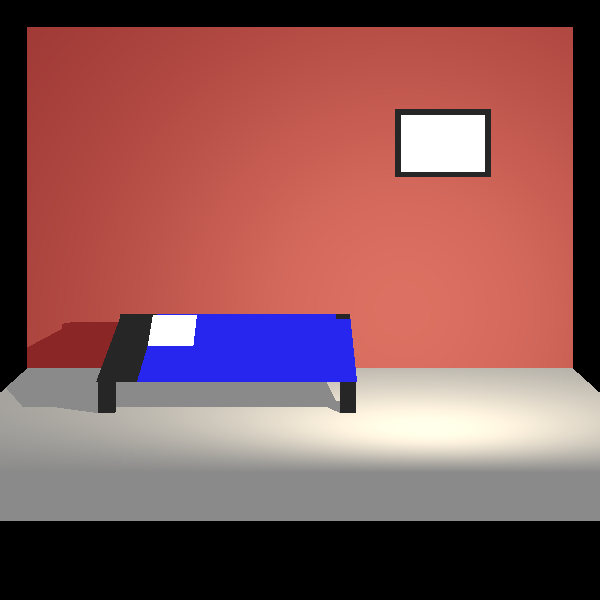
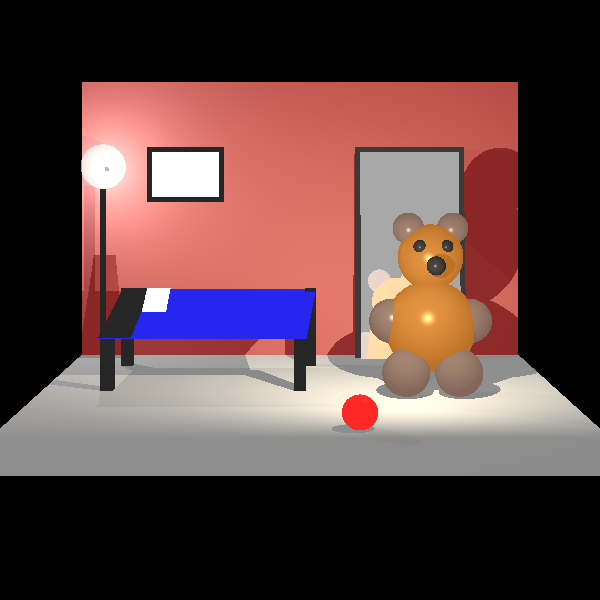
continue new MP2

diff --git a/unitTests/improvments/improvmentsTests.java b/unitTests/improvments/improvmentsTests.java
@@ -2,6 +2,7 @@ package improvments;
 
 import geometries.*;
 import lighting.AmbientLight;
+import lighting.PointLight;
 import lighting.SpotLight;
 import org.junit.jupiter.api.Test;
 import primitives.*;
@@ -210,7 +211,7 @@ public class improvmentsTests {
 //        Camera camera = new Camera(new Point(0, 0, 1000), new Vector(0, 0, -1), new Vector(0, 1, 0))
 //                .setVPSize(200, 200).setVPDistance(500);
         Camera camera = new Camera(new Point(0, 0, 1000), new Vector(0, 0, -1), new Vector(0, 1, 0))
-                .setVPSize(200, 200).setVPDistance(500);
+                .setVPSize(200, 200).setVPDistance(400);
 
         scene.setAmbientLight(new AmbientLight(new Color(WHITE), 0.15));
         scene.geometries.add(
@@ -236,58 +237,164 @@ public class improvmentsTests {
                                 .setShininess(0)),
                 //new Cuboid(new Point(-100, -10, -70), 100, 20, 30, new Color(BLUE)),
                 new Polygon(//frame
-                        new Point(70, 90, -100),
-                        new Point(140, 90, -100),
-                        new Point(140, 140, -100),
-                        new Point(70, 140, -100)
+                        new Point(-140, 90, -100),
+                        new Point(-70, 90, -100),
+                        new Point(-70, 140, -100),
+                        new Point(-140, 140, -100)
                 ).setEmission(new Color(0, 0, 0)),
                 new Polygon(//white picture
-                        new Point(74, 94, -100),
-                        new Point(136, 94, -100),
-                        new Point(136, 136, -100),
-                        new Point(74, 136, -100)
-                ).setEmission(new Color(255,255,255)),
+                        new Point(-136, 94, -100),
+                        new Point(-74, 94, -100),
+                        new Point(-74, 136, -100),
+                        new Point(-136, 136, -100)
+                ).setEmission(new Color(255, 255, 255)),
+                new Polygon(//frame of mirror
+                        new Point(50, -70, -80),
+                        new Point(150, -70, -80),
+                        new Point(150, 140, -100),
+                        new Point(50, 140, -100)
+                ).setEmission(new Color(20, 20, 20)),
+                new Polygon(//mirror
+                        new Point(55, -55, -77),
+                        new Point(145, -55, -77),
+                        new Point(145, 135, -97),
+                        new Point(55, 135, -97)).setEmission(new Color(130,130,130)).setMaterial(new Material().setKr(0.7)),
+                new Cuboid(new Point(-180, 100, -80), 5, 160, 5, new Color(BLACK)),//stick of lamp
+                new Sphere(20d, new Point(-177, 120, -80))  //lamp
+                        .setMaterial((new Material()
+                                .setKd(0.5)
+                                .setKs(0.2)
+                                .setKt(0.7))),
+
                 new Polygon( //bed
-                        new Point(-125, -10, -50),
-                        new Point(35, -10, -50),
-                        new Point(35, -50, 80),
-                        new Point(-125, -50, 80)
-                ).setEmission(new Color(0,0,200)),
+                        new Point(-146, 10, -50),
+                        new Point(14, 10, -50),
+                        new Point(5, -30, 80),
+                        new Point(-155, -30, 80)
+                ).setEmission(new Color(0, 0, 200)),
 //                        .setMaterial((new Material()
 //                                .setKd(0.5)
 //                                .setKs(0.5)
 //                                .setKr(0.5)
 //                                .setShininess(30))),
-                new Cuboid(new Point(-115, -47, 65),110,3, 50,new Color(WHITE)),//כרית
+                // new Cuboid(new Point(-155, -27, 65),110,3, 50,new Color(WHITE)),//כרית
 
                 //top left bed leg
-                new Cuboid(new Point(-125, -10, -40),10,60,10),
+                new Cuboid(new Point(-155, 10, -40), 10, 80, 10),
                 //top right bed leg
-                new Cuboid(new Point(25, -10, -40),10,60,10),
+                new Cuboid(new Point(4, 10, -40), 10, 80, 10),
                 //bottom right bed leg
-                new Cuboid(new Point(25, -50, 70),10,60,10),
+                new Cuboid(new Point(-5, -30, 70), 10, 80, 10),
                 //bottom left bed leg
-                new Cuboid(new Point(-125, -50, 70),10,60,10),
+                new Cuboid(new Point(-155, -30, 70), 10, 80, 10),
 
-                new Polygon(new Point(-125, -50, 80),
-                        new Point(-100, -50, 80),
-                        new Point(-100, -10, -50),
-                        new Point(-125, -10, -50)),
+                new Polygon(new Point(-155, -29.5, 80),
+                        new Point(-130, -29.5, 80),
+                        new Point(-130, 10.5, -50),
+                        new Point(-155, 10.5, -50)),
 
-                new Polygon(new Point(-100, -50, 50),
-                        new Point(-70, -50, 50),
-                        new Point(-70, -10, -20),
-                        new Point(-100, -10, -20)).setEmission(new Color(WHITE))
+                new Polygon(new Point(-130, -30, 50),
+                        new Point(-110, -30, 50),
+                        new Point(-110, 10, -20),
+                        new Point(-130, 10, -20)).setEmission(new Color(WHITE)),
+                new Sphere(35d, new Point(100, -20, 80))//body
+                        .setEmission(new Color(150, 75, 0))
+                        .setMaterial(new Material()
+                                .setKd(0.2)
+                                .setKs(0.7)
+                                .setShininess(30)),
+                new Sphere(25d, new Point(100, 33, 80))//head
+                        .setEmission(new Color(150, 75, 0))
+                        .setMaterial(new Material()
+                                .setKd(0.2)
+                                .setKs(0.7)
+                                .setShininess(30)),
+                new Sphere(17d, new Point(70, -16, 80))//left arm
+                        .setEmission(new Color(92, 64, 51))
+                        .setMaterial(new Material()
+                                .setKd(0.2)
+                                .setKs(0.7)
+                                .setShininess(30)),
+                new Sphere(17d, new Point(130, -16, 80))//right arm
+                        .setEmission(new Color(92, 64, 51))
+                        .setMaterial(new Material()
+                                .setKd(0.2)
+                                .setKs(0.7)
+                                .setShininess(30)),
+                new Sphere(18d, new Point(80, -55, 96))//left leg
+                        .setEmission(new Color(92, 64, 51))
+                        .setMaterial(new Material()
+                                .setKd(0.2)
+                                .setKs(0)
+                                .setShininess(30)),
+                new Sphere(18d, new Point(120, -55, 96))//right leg
+                        .setEmission(new Color(92, 64, 51))
+                        .setMaterial(new Material()
+                                .setKd(0.2)
+                                .setKs(0)
+                                .setShininess(30)),
+                new Sphere(12d, new Point(83, 55, 80))//left ear
+                        .setEmission(new Color(92, 64, 51))
+                        .setMaterial(new Material()
+                                .setKd(0.2)
+                                .setKs(0.7)
+                                .setShininess(30)),
+                new Sphere(12d, new Point(117, 55, 80))//right ear
+                        .setEmission(new Color(92, 64, 51))
+                        .setMaterial(new Material()
+                                .setKd(0.2)
+                                .setKs(0.7)
+                                .setShininess(30)),
+                new Sphere(5d, new Point(110, 40, 100))//right eye
+                        .setEmission(new Color(BLACK))
+                        .setMaterial(new Material()
+                                .setKd(0.2)
+                                .setKs(0.7)
+                                .setShininess(30)),
+                new Sphere(5d, new Point(90, 40, 100))//left eye
+                        .setEmission(new Color(BLACK))
+                        .setMaterial(new Material()
+                                .setKd(0.2)
+                                .setKs(0.7)
+                                .setShininess(30)),
+                new Sphere(7d, new Point(100, 25, 120))//nose
+                        .setEmission(new Color(BLACK))
+                        .setMaterial(new Material()
+                                .setKd(0.2)
+                                .setKs(0.7)
+                                .setShininess(30)),
+                new Sphere(3d, new Point(100, 20, 120))//mouse
+                        .setEmission(new Color(255,0,0))
+                        .setMaterial(new Material()
+                                .setKd(0.2)
+                                .setKs(0.7)
+                                .setShininess(30)),
 
-                //new Cuboid(new Point(-125, 0, 70),10,10,200, new Color(255,255,255))
 
+
+
+
+
+
+
+        new Sphere(12d, new Point(40, -75, 200))
+                .setEmission(new Color(RED))
+                .setMaterial(new Material()
+                        .setKd(0.2)
+                        .setKs(0.7)
+                        .setShininess(30))
+
+        //new Cuboid(new Point(-125, 0, 70),10,10,200, new Color(255,255,255))
 
 
         );
 
 
         scene.lights.add(new SpotLight(new Color(245, 222, 179), new Point(75, 20, 200), new Vector(0, -1, -4))
-                .setKl(4E-4).setKq(2E-5));
+              .setKl(4E-4).setKq(2E-5));
+        //scene.lights.add(new SpotLight(new Color(0, 255,0), new Point(0,30,700), new Vector(0, -0.5,-1))
+        //      .setKl(4E-4).setKq(2E-5));
+        scene.lights.add(new PointLight(new Color(WHITE), new Point(-177, 120, -80)).setKl(0.001).setKq(0.00015));
 
 
         ImageWriter imageWriter = new ImageWriter("newMP2", 600, 600);
